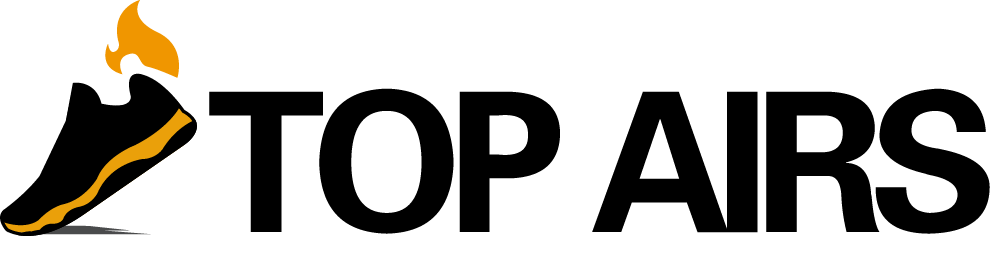
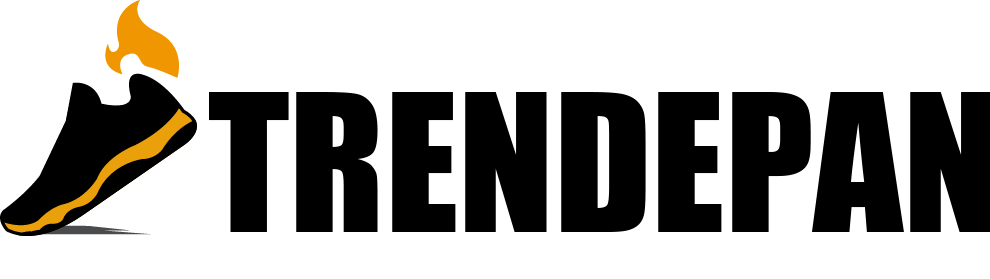
logo2

Changed region(s): [[0.2121, 0.3154, 1.0, 0.8602]]

diff --git a/public/index.html b/public/index.html
@@ -4,14 +4,14 @@
     <meta charset="utf-8">
     <meta http-equiv="X-UA-Compatible" content="IE=edge">
     <meta name="viewport" content="width=device-width,initial-scale=1.0,user-scalable=no">
-    <meta property="og:image" content="https://www.alphamart-cod.com/img/ydzs.png"/>
+    <meta property="og:image" content="https://www.trendepan.com/ydzs.png"/>
     <meta property="og:type" content="website"/>
-    <meta property="og:url" content="https://www.topairs.com/"/>
-    <meta property="og:title" content="TOP AIRS"/>
-    <meta property="og:description" content="TOP AIRS"/>
+    <meta property="og:url" content="https://www.trendepan.com/"/>
+    <meta property="og:title" content="trendepan"/>
+    <meta property="og:description" content="trendepan"/>
     <link rel="icon" href="<%= BASE_URL %>favicon.ico">
     <script src="https://cdn.jsdelivr.net/npm/@vant/touch-emulator"></script>
-    <title>TOP AIRS</title>
+    <title>trendepan</title>
     <script>
       document.querySelector("meta[property='og:url']").remove();
       var head = document.getElementsByTagName('head');

diff --git a/src/serviceAPI.config.js b/src/serviceAPI.config.js
@@ -6,9 +6,9 @@ if(process.env.NODE_ENV === 'development'){
     var LOCALURL =  "http://www.website.cc/"
 }else{
     if(document.location.protocol ==='http:'){
-        var LOCALURL =  "http://shop.topairs.com/"
+        var LOCALURL =  "http://shop.trendepan.com/"
     }else{
-        var LOCALURL =  "https://shop.topairs.com/"
+        var LOCALURL =  "https://shop.trendepan.com/"
     }
     
 }
